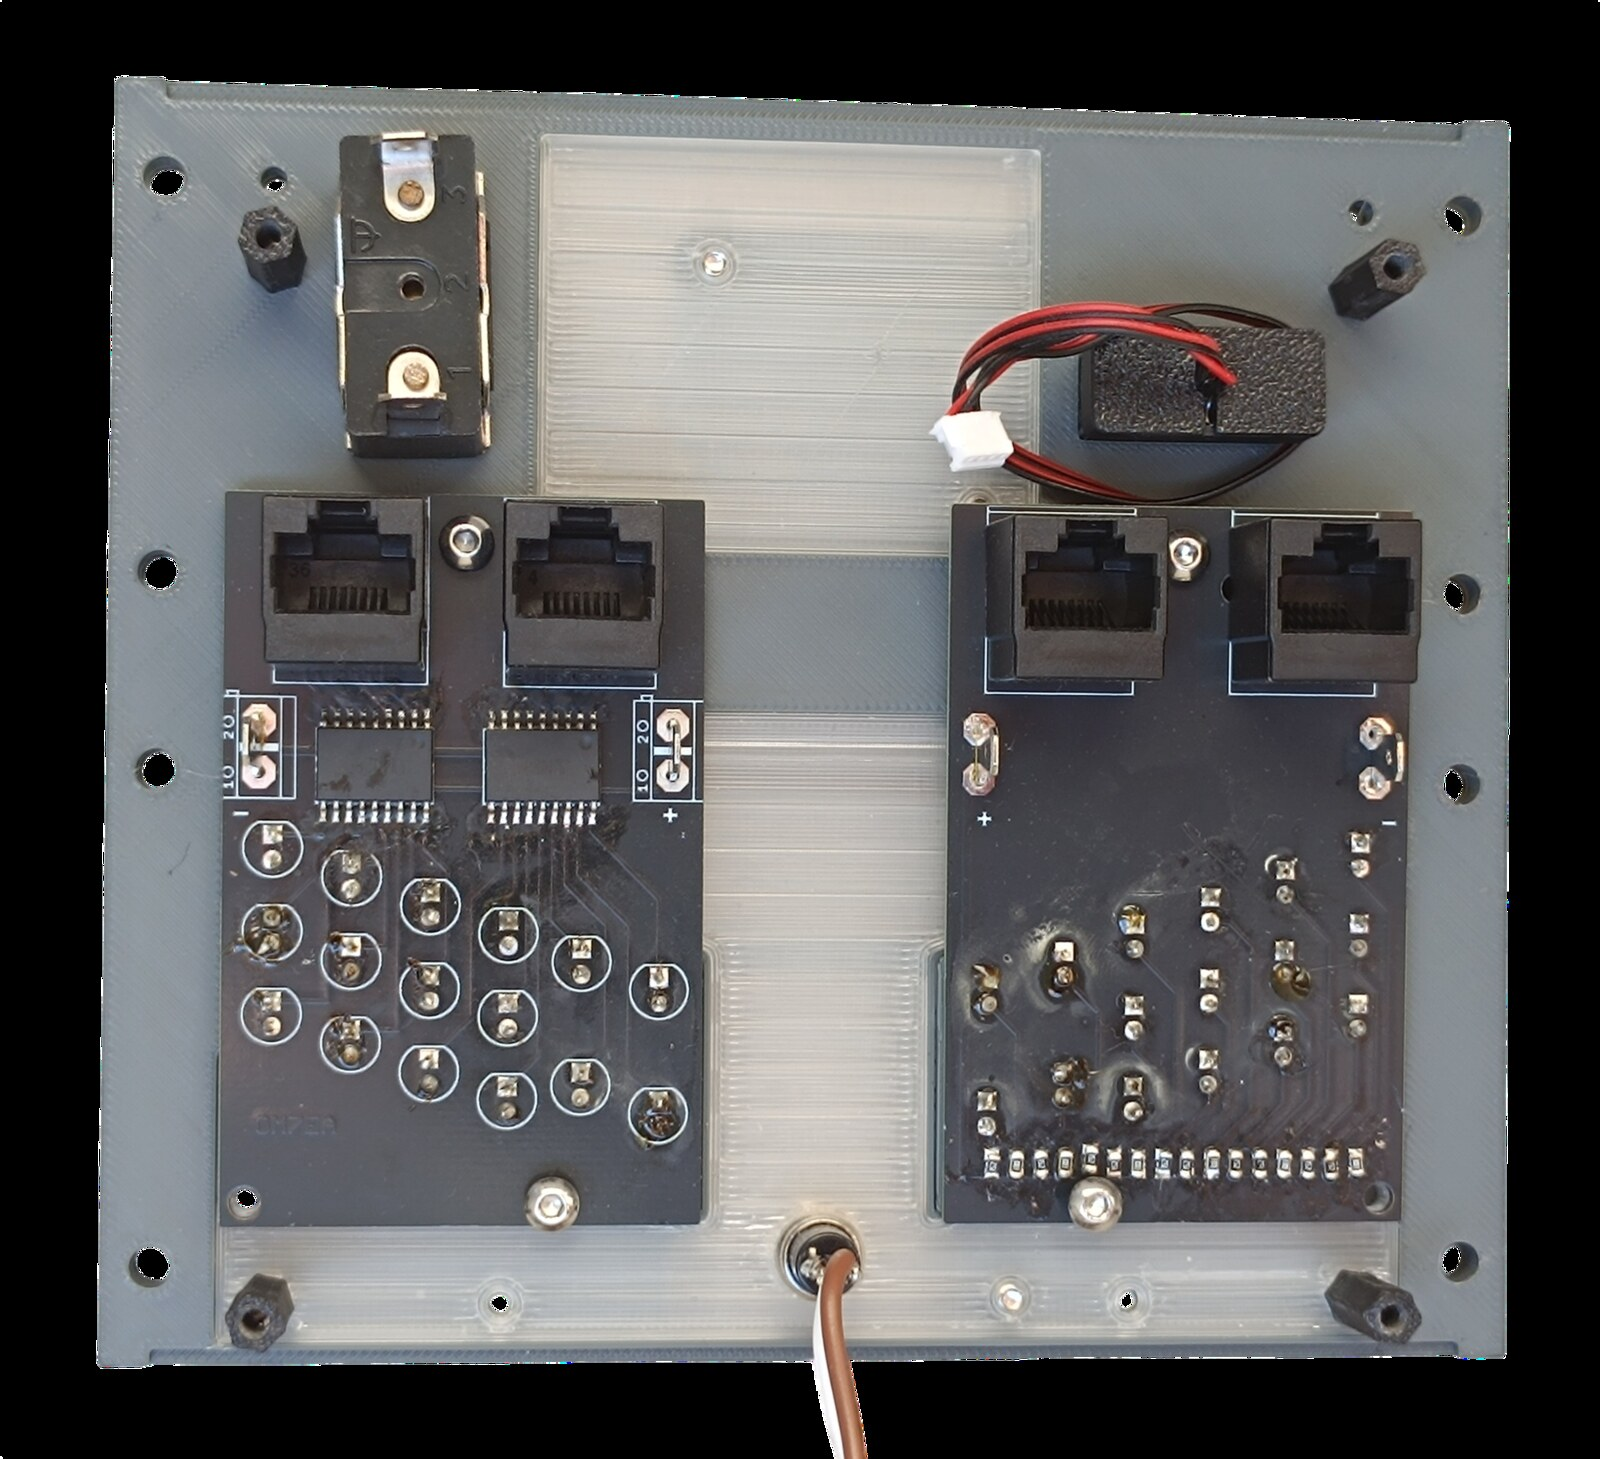
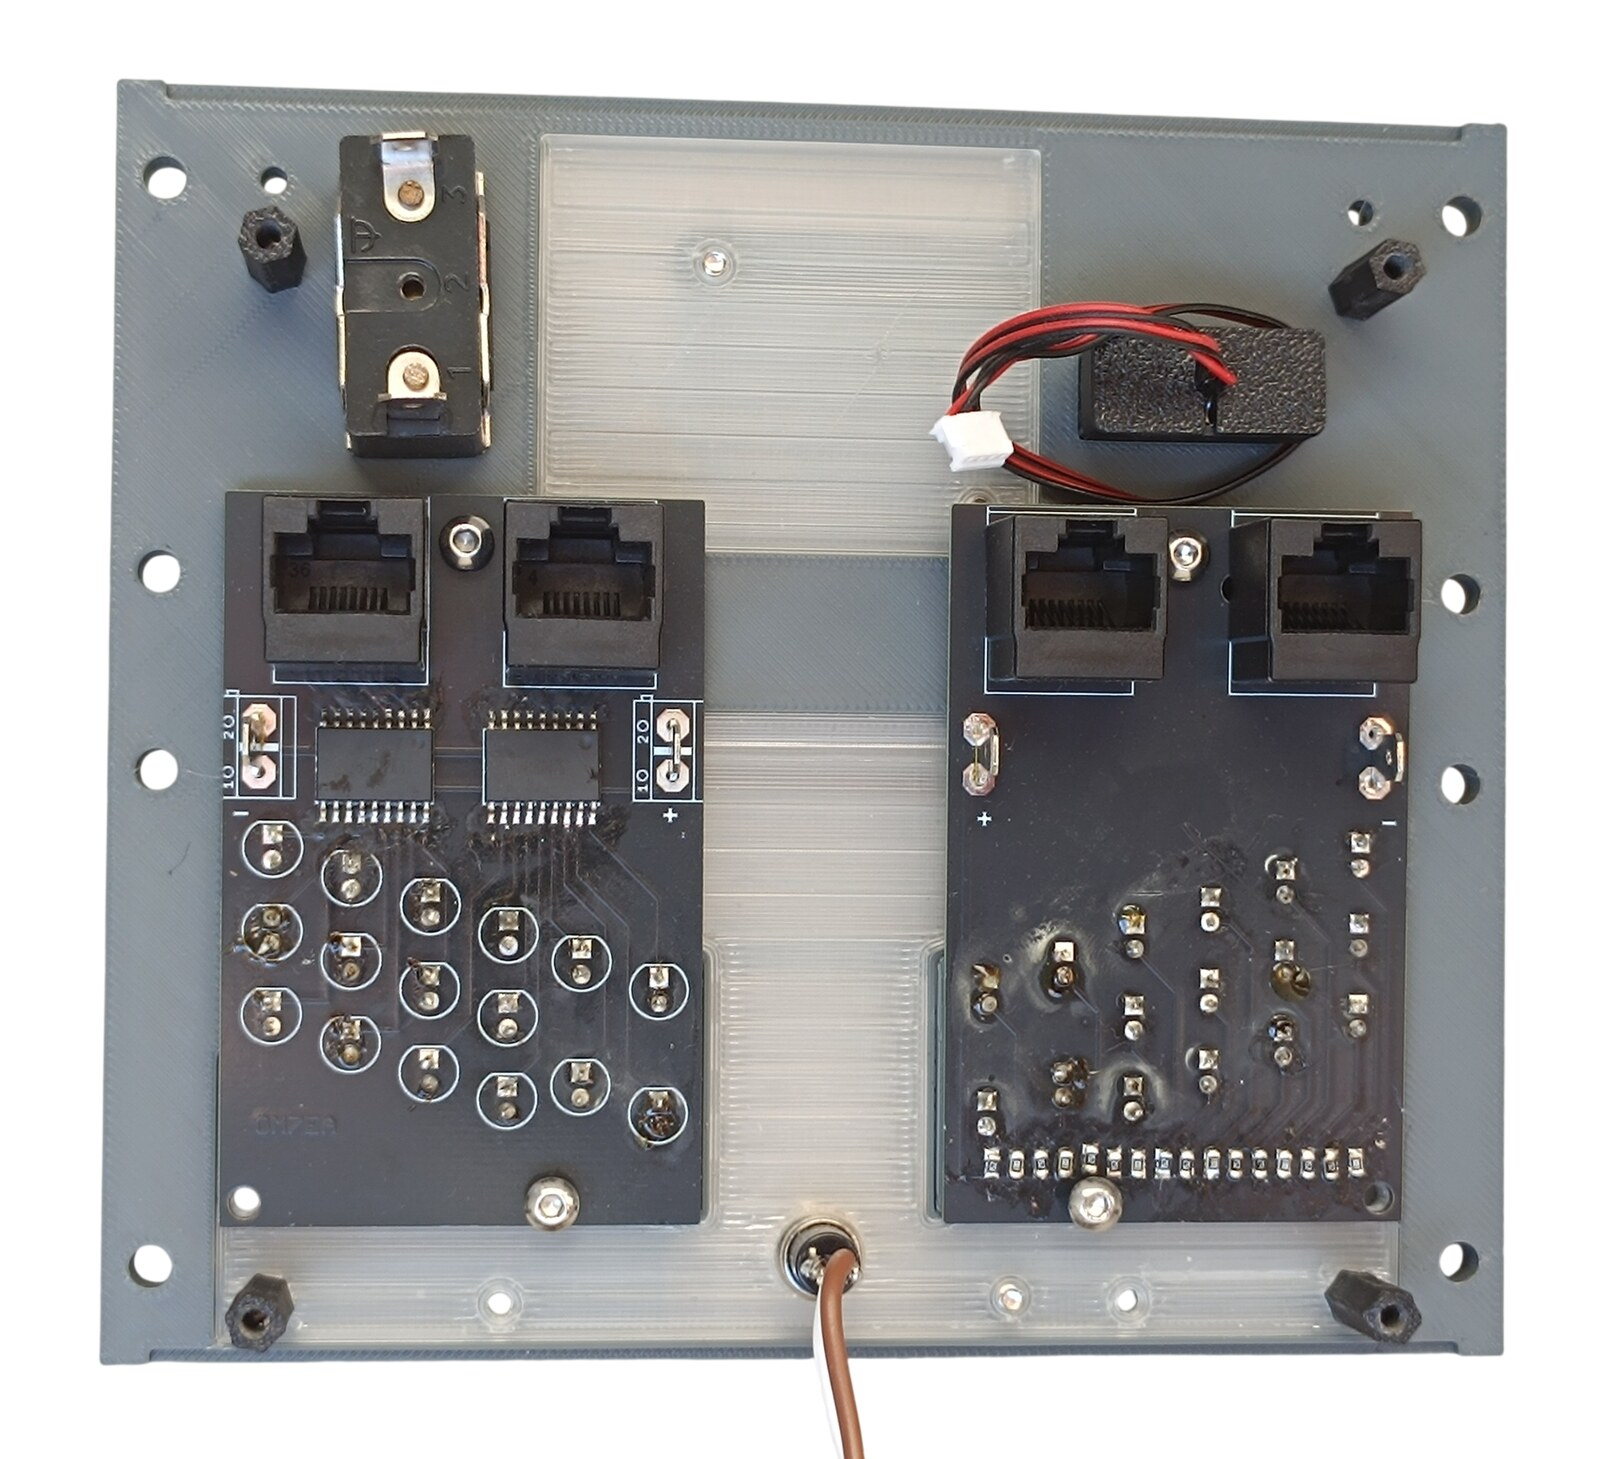
docs: refresh the LE Devices panel photos and correct the PCB screw head

Changed region(s): [[0.0, 0.0, 1.0, 1.0], [0.1562, 0.1234, 0.1875, 0.1542], [0.125, 0.8019, 0.1562, 0.8328]]

diff --git a/docs/models/17-le-devices-and-elt-panel.md b/docs/models/17-le-devices-and-elt-panel.md
@@ -21,6 +21,11 @@
 <td align="center" width="50%"><img src="../../images/panels/17-le-devices-photo-4-pcbs.jpg" alt="Rear of the bottom panel with the two LE Devices PCBs"><br><sub>Rear of the bottom panel — the two LE Devices PCBs</sub></td>
 </tr>
 </tbody>
+<tbody>
+<tr>
+<td align="center" colspan="2"><img src="../../images/panels/17-le-devices-photo-5-rear.jpg" alt="Rear of the finished panel with the backlight panel fitted"><br><sub>Rear side — the backlight panel with the four RJ45 sockets and the Combined PCB</sub></td>
+</tr>
+</tbody>
 </table>
 
 ---
@@ -195,7 +200,7 @@ Headers 1 and 2 and pins 7 and 8 are not used.
 **Header 4 serves a different panel.** It carries the single annunciator of the [PSEU Panel](15-pseu-panel.md), which has no PCB of its own.
 
 > **Note**
-> The ELT annunciator on header 3 and the ELT switch on pin 5 are wired, but they have no configuration in the [MobiFlight project](../mobiflight.md) — the ELT has no counterpart in the simulator. The lamp stays dark and the switch does nothing.
+> The ELT annunciator on header 3 and the ELT switch on pin 5 are wired, but they have no configuration in the [MobiFlight project](../mobiflight.md) — the PMDG 737-800 exposes no variable for the ELT. The lamp stays dark and the switch does nothing.
 
 **The switch and the push button share a single ground return.** Each takes one of its terminals to its own pin. The opposite terminals are commoned — daisy-chained from one to the other — and the chain ends at a **-** (ground) contact.
 
